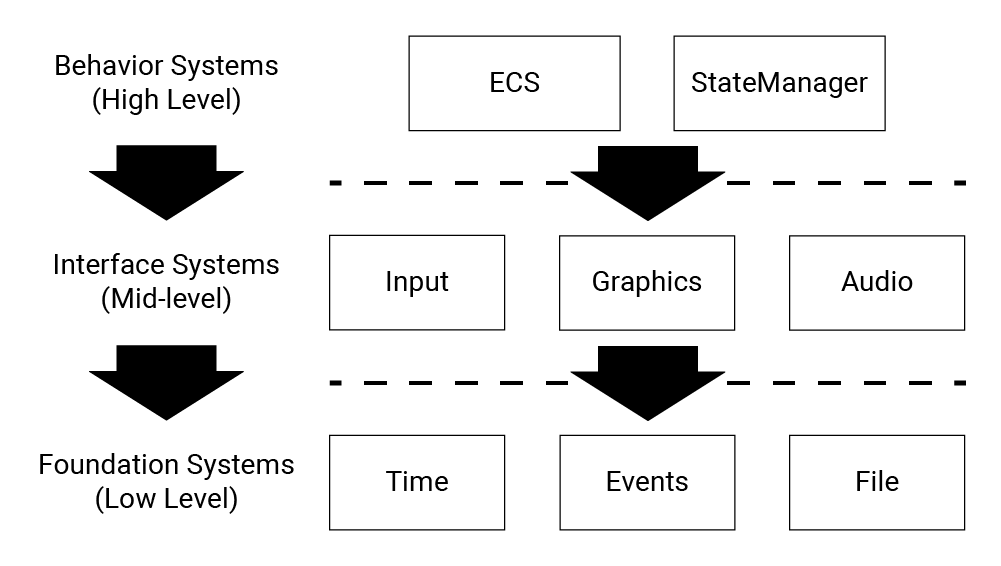
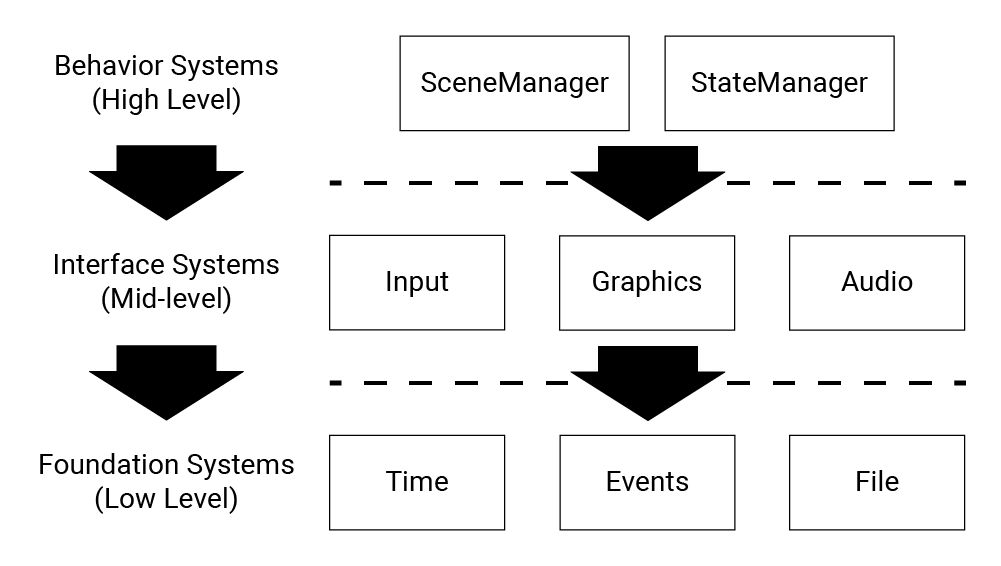
Updated docs with new core calls and ECS rename

diff --git a/Enterprise/doxygen/Programming.md b/Enterprise/doxygen/Programming.md
@@ -60,24 +60,21 @@ Predefined macros are available for conditionalizing code to run on only specifi
 @anchor Core_Calls
 # Core Calls
 
-As you learn %Enterprise, you will notice a few method names crop up again and again: *Init(), Tick(), Update(), PhysUpdate(), Draw(),* and *Cleanup()*.  These are the "core calls": functions that are invoked at specific times during the application lifecycle.  Core calls are used throughout %Enterprise to organize execution, and developers are encouraged to follow the paradigm when developing their own classes and systems.
+As you learn %Enterprise, you will notice a few method names crop up again and again: *Init(), FixedUpdate(), Update(), Draw(),* and *Cleanup()*.  These are known as the "core calls": functions whose names tell you exactly when they will be invoked.  Core calls are used throughout %Enterprise to organize execution, and developers are encouraged to follow the paradigm when developing their own systems and classes.
 
 The core calls are invoked as follows:
 
-* **Init()** and **Cleanup()**: Called at the start and end of a class's lifecycle.  These are not replacements for constructors and destructors: instead, they are used in situations where constructors and destructors are not suitable, such as managing the lifecycle of [ring buffer](https://en.wikipedia.org/wiki/Circular_buffer) objects.
-* **Tick()**: In %Enterprise, a "tick" occurs at the start of each frame and each physics frame.  Every call to Application::Run() triggers at least one Tick(), so ticks happen very, very frequently.
-* **Update()**: Called once every frame.  Gameplay code is typically implemented here.
-* **PhysUpdate()**: Called once every physics frame, which occurs at a fixed timestep.  Physics simulations are updated here.
+* **Init()** and **Cleanup()**: Called at the start and end of a class's lifecycle.  These are not replacements for constructors and destructors: instead, they are used in situations where constructors and destructors are not suitable, such as static classes or [ring buffer objects](https://en.wikipedia.org/wiki/Circular_buffer).
+* **FixedUpdate()**: Called every Constants::Time::FixedTimestep seconds, independent of the game's actual framerate.  This is useful for complex simulations, such as physics simulations.  Correct use of FixedUpdate can make your gameplay much more stable and deterministic, even across a wide variety of platforms.
+* **Update()**: Called once every frame.  Gameplay and UI code is often implemented here.
 * **Draw()**: Called immediately after Update().  Rendering code lives here.
 
-@note At the time of this writing, Tick() is not used for anything besides timing physics frames.  It will be removed from this list in the future if it remains unused.
+Core calls are invoked in a hierarchy.  At the top of the hierarchy is Enterprise::Application, which invokes the core calls of each of %Enterprise's [core systems](@ref Systems) during Application::Run().  From there, the systems invoke the core calls of all their constituents, and the constituents do the same until the entire engine has been serviced.
 
-Core calls are invoked in a hierarchy.  At the top of the hierarchy is Enterprise::Application, which invokes the core calls of each of %Enterprise's [core systems](@ref Systems) during Application::Run().  From there, the systems invoke the core calls of all their constituents, and the constituents do the same until the core calls have fully propagated throughout the engine.
-
-As a developer, you will most commonly implement core calls when developing your own subsystems for [ECS](@ref ECS) or game states for [StateManager](@ref StateManager).
+As a developer, you will most commonly implement core calls when developing your own subsystems for [SceneManager](@ref SceneManager) or game states for [StateManager](@ref StateManager).
 
 @see @ref Time
-@see @ref ECS
+@see @ref SceneManager
 @see @ref StateManager
 
 # Assertions
@@ -103,7 +100,7 @@ Due to these benefits, many of %Enterprise's core system APIs take HashNames as 
 
 * Event dispatching and identification
 * Setting shader uniform values
-* Tagging ECS entities
+* Tagging scene entities
 * and more!
 
 To generate a HashName, use the global function HN().  In **Debug** builds, this function hashes the string, performs collision detection, and interns the string for use in the [console](@ref Console).  In **Dev** and **Dist** builds, it simply performs a `constexpr` conversion without collision detection (at compile time, when possible):
@@ -194,7 +191,7 @@ This must be done in Game::Init().
 
 After an option is registered, you can use Application::CheckCmdLineOption() or Application::GetCmdLineOption() to respond to it.  Use CheckCmdLineOption() to check for simple flags, and GetCmdLineOption() to check options that have additional parameters.
 
-@note Application::CheckCmdLineOption() and Application::GetCmdLineOption() can be invoked at any time after Game::Init(), even during Update(), PhysUpdate(), or Draw().  The command line options are stored into a global hash table at application launch, and they remain available for lookup until the program terminates.
+@note Application::CheckCmdLineOption() and Application::GetCmdLineOption() can be invoked at any time after Game::Init(), even during Update(), FixedUpdate(), or Draw().  The command line options are stored into a global hash table at application launch, and they remain available for lookup until the program terminates.
 
 # Developer Console
 

diff --git a/Enterprise/doxygen/Systems/Systems.md b/Enterprise/doxygen/Systems/Systems.md
@@ -7,7 +7,7 @@ Subpages:
 * @subpage Input
 * @subpage Graphics
 * @subpage Audio
-* @subpage ECS
+* @subpage SceneManager
 * @subpage StateManager
 
 ---
@@ -17,9 +17,9 @@ At the bedrock of %Enterprise is its systems.  %Enterprise's core systems are si
 * Automatically handles low-level background tasks
 * Fulfills requests made by other systems
 
-At the time of this writing, eight systems are planned for development: [Events](@ref Events), [Time](@ref Time), [File](@ref File), [Input](@ref Input), [Graphics](@ref Graphics), [Audio](@ref Audio), [ECS](@ref ECS), and [StateManager](@ref StateManager).  These systems often depend on each other, resulting in the dependency hierarchy shown below:
+At the time of this writing, eight systems are planned for development: [Events](@ref Events), [Time](@ref Time), [File](@ref File), [Input](@ref Input), [Graphics](@ref Graphics), [Audio](@ref Audio), [SceneManager](@ref SceneManager), and [StateManager](@ref StateManager).  These systems often depend on each other, resulting in the dependency hierarchy shown below:
 
-![A graph showing how Enterprise's eight systems can be sorted into three layers.  At the highest level is ECS and StateManager, at the mid level is Input, Graphics, and Audio, and at the lowest level is Time, Events, and File.](system_hierarchy.png)
+![A graph showing how Enterprise's eight systems can be sorted into three layers.  At the highest level is SceneManager and StateManager, at the mid level is Input, Graphics, and Audio, and at the lowest level is Time, Events, and File.](system_hierarchy.png)
 
 @remarks To support networked games, I may eventually add a fourth foundation system called *Network*.  At the the time of this writing, however, this is not on the roadmap.
 

diff --git a/Enterprise/doxygen/Systems/SceneManager.md b/Enterprise/doxygen/Systems/SceneManager.md
@@ -1,0 +1,3 @@
+@page SceneManager SceneManager (System)
+
+SceneManager is one of Enterprise's two behavior systems.
